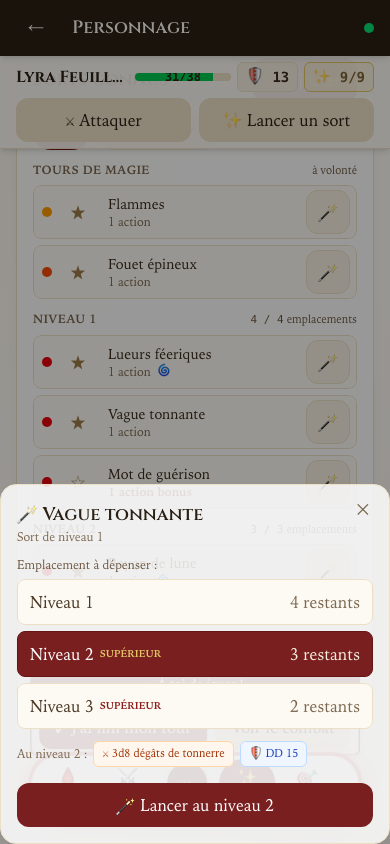
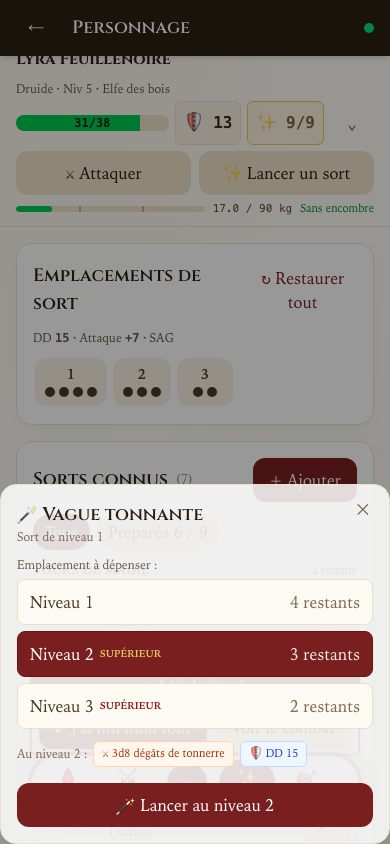
fix(web): la fiche colle plus à l'en-tête sur mobile — main py-3 + captures rafraîchies

diff --git a/apps/web/src/App.tsx b/apps/web/src/App.tsx
@@ -337,7 +337,7 @@ export default function App() {
       <IOSViewportAnchor />
       <Nav />
       <OfflineBanner />
-      <main className="max-w-6xl mx-auto px-4 py-6 pb-[calc(6rem+env(safe-area-inset-bottom))]">
+      <main className="max-w-6xl mx-auto px-4 py-3 sm:py-6 pb-[calc(6rem+env(safe-area-inset-bottom))]">
         <RouteBoundary>
           <Suspense fallback={<RouteFallback />}>
             <Routes>
